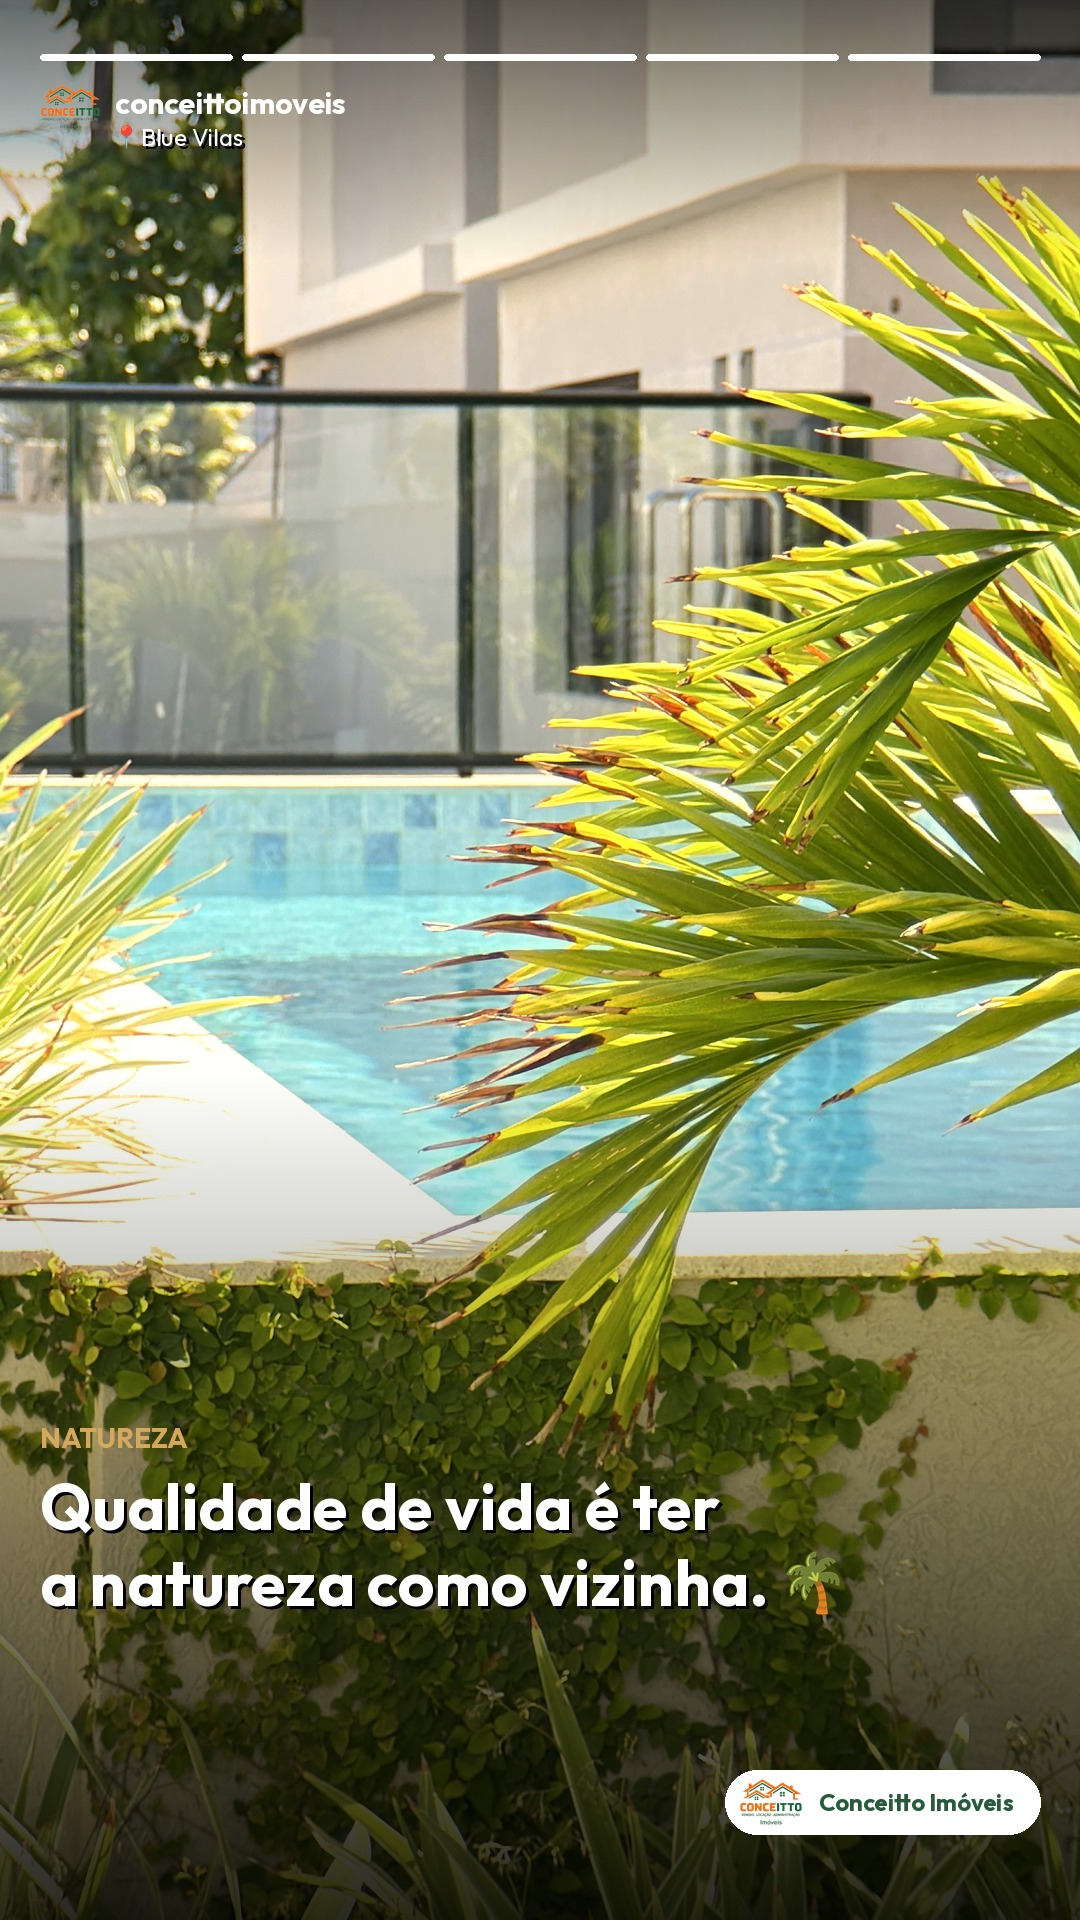
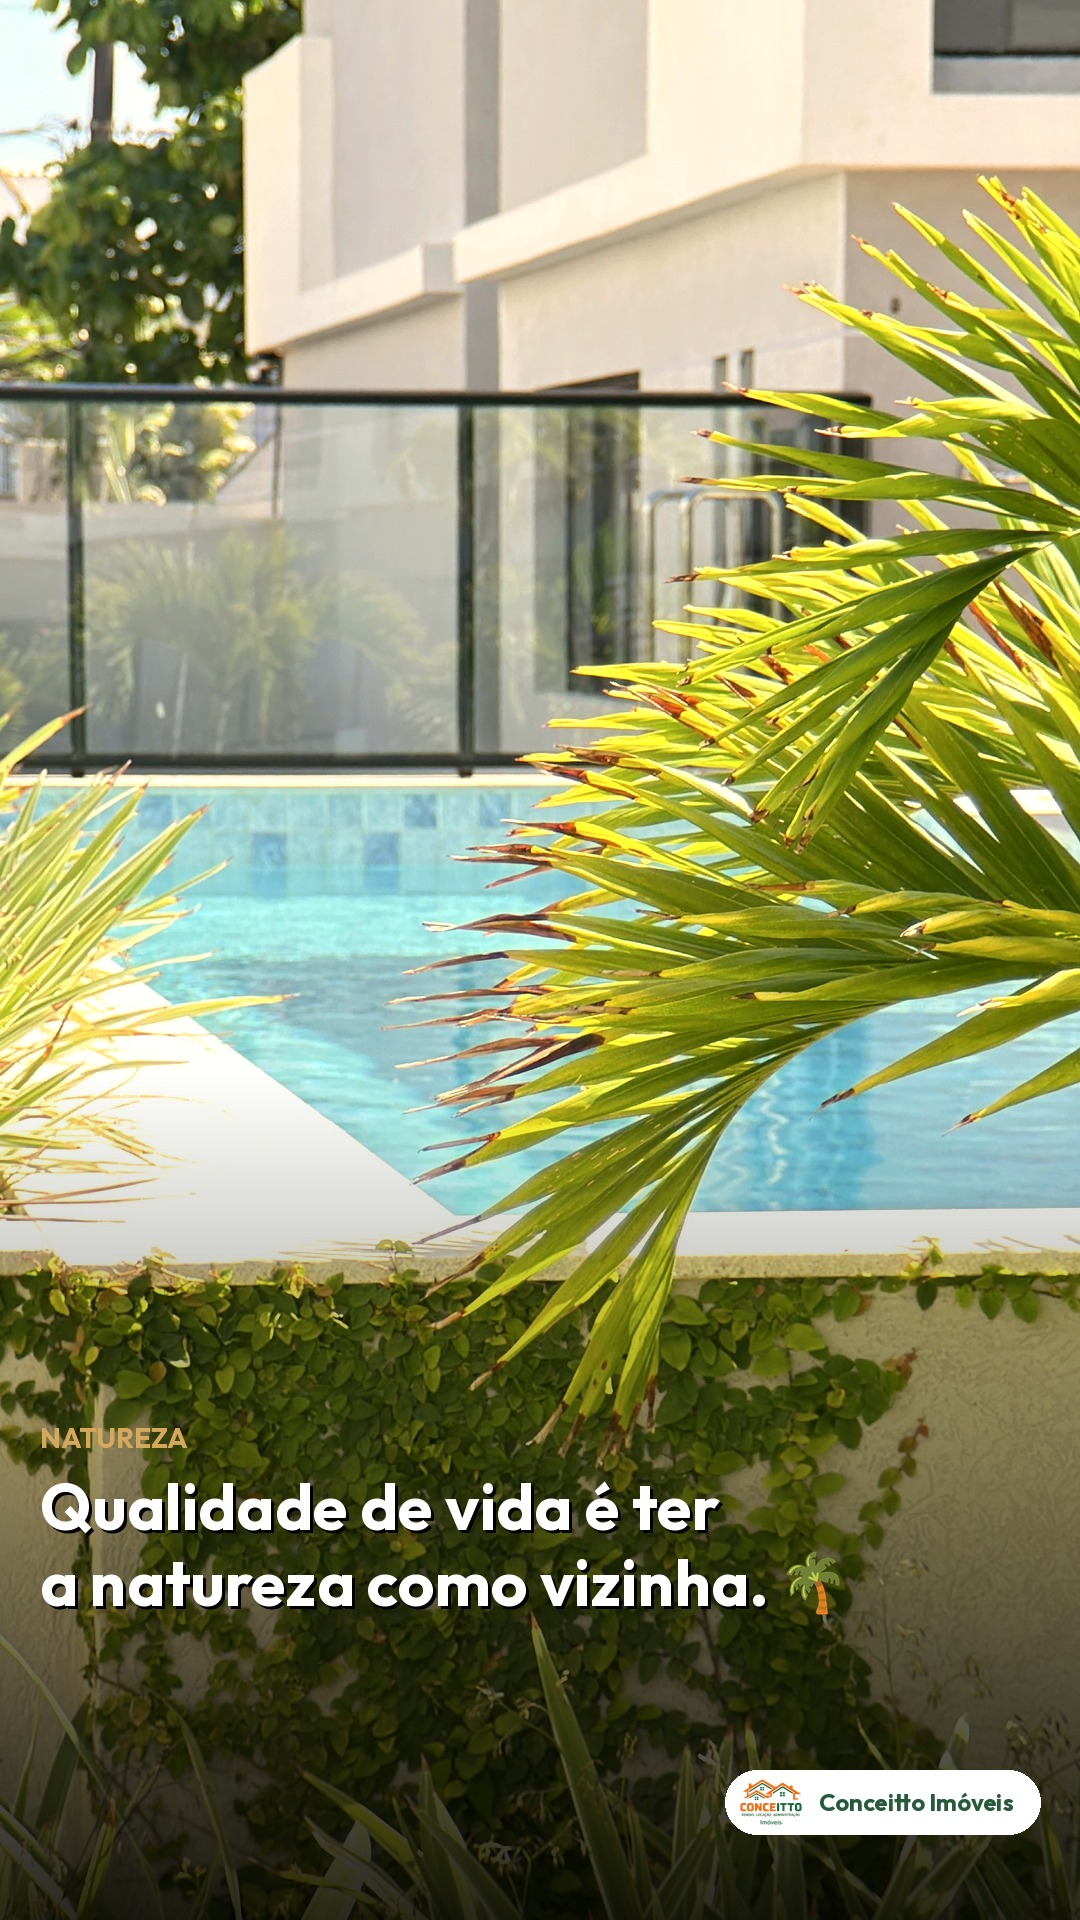
Remove UI falsa do Instagram dos cards de Stories
Tira a barra de progresso, o handle @conceittoimoveis e a localização
simulados no topo dos 5 cards — o próprio Instagram já desenha isso por
cima ao publicar (foto de perfil, conta, stickers), então ficava
duplicado e por cima da interface real. Os cards agora têm só a foto
tratada, a copy e a marca d'água da Conceitto no rodapé. Atualiza o
script make_stories.py (paths relativos restaurados) e a seção 10 do
README.

Claude-Session: https://claude.ai/code/session_017FMhFjrTWxDJoqAE912qQy

Changed region(s): [[0.0, 0.0, 1.0, 0.125]]

diff --git a/campanha-blue-vilas/scripts/make_stories.py b/campanha-blue-vilas/scripts/make_stories.py
@@ -1,5 +1,7 @@
 # Gera cards de Stories (1080x1920) a partir das fotos brutas selecionadas,
-# com color grading, copy sobreposta e a logo da Conceitto como marca d'água.
+# com color grading, copy sobreposta e a logo da Conceitto como marca d'água
+# (sem nenhuma UI falsa do Instagram — sem barra de progresso, handle ou
+# localização no topo: isso o próprio app já desenha por cima ao publicar).
 #
 # Como usar:
 #   1. pip install pillow
@@ -142,27 +144,15 @@ for i, card in enumerate(CARDS):
     im = grade(im)
     canvas = im.convert("RGBA")
 
-    grad = make_gradient(W, H, top_alpha=150, bottom_alpha=215, top_h=260, bottom_h=850)
+    # Apenas gradiente na base — sem barra de progresso, handle ou
+    # localização no topo: isso o próprio Instagram já desenha por cima
+    # (foto de perfil, @conta e stickers), então replicar aqui duplicava
+    # e ficava por cima da interface real ao publicar.
+    grad = make_gradient(W, H, top_alpha=0, bottom_alpha=215, top_h=0, bottom_h=850)
     canvas.alpha_composite(grad)
     draw = ImageDraw.Draw(canvas)
 
     margin = 40
-    gap = 10
-    seg_w = (W - 2 * margin - gap * (N - 1)) / N
-    for s in range(N):
-        x0 = margin + s * (seg_w + gap)
-        x1 = x0 + seg_w
-        color = (255, 255, 255, 235) if s <= i else (255, 255, 255, 90)
-        rounded_rect(draw, (x0, 54, x1, 60), radius=3, fill=color)
-
-    logo_h = 46
-    logo_small = logo.copy()
-    ratio = logo_h / logo_small.height
-    logo_small = logo_small.resize((int(logo_small.width * ratio), logo_h), Image.LANCZOS)
-    canvas.alpha_composite(logo_small, (margin, 84))
-    draw.text((margin + logo_small.width + 14, 84), "conceittoimoveis", font=f_bold(30), fill=WHITE)
-    draw_line_with_emoji(canvas, draw, (margin + logo_small.width + 14, 122), "📍 Blue Vilas", f_reg(24), (255, 255, 255, 220))
-
     ky = 1360 if card["focus"] == "top" else 1420
     draw.text((margin, ky), card["kicker"], font=f_bold(28), fill=GOLD)
 
@@ -202,6 +192,6 @@ for i, card in enumerate(CARDS):
         canvas.alpha_composite(lg, (int(cx0 + pad_l), int(cy0 + 8)))
         draw.text((cx0 + pad_l + lg.width + gap2, cy0 + chip_h / 2), label, font=lf, fill=(40, 90, 60), anchor="lm")
 
-    out_path = os.path.join(OUT, f"story-{i+1}-{os.path.splitext(card['photo'])[0]}.png")
-    canvas.convert("RGB").save(out_path, quality=95)
+    out_path = os.path.join(OUT, f"story-{i+1}-{os.path.splitext(card['photo'])[0]}.jpg")
+    canvas.convert("RGB").save(out_path, quality=92)
     print("saved", out_path)

diff --git a/campanha-blue-vilas/README.md b/campanha-blue-vilas/README.md
@@ -167,6 +167,8 @@ Clean up this architectural floor plan graphic for a premium real-estate Instagr
 
 A partir da seleção da seção 3, gerei 5 cards finais em `stories/` (1080×1920, formato Stories/Reels), já com color grading aplicado, copy sobreposta e a logo da **Conceitto Imóveis** como marca d'água — prontos para postar em sequência.
 
+**Sem nenhuma UI falsa do Instagram**: a primeira versão simulava a barra de progresso, o `@conceittoimoveis` e a localização no topo, mas isso é exatamente o que o próprio app já desenha por cima ao publicar (foto de perfil, nome da conta, stickers) — então duplicava e ficava por cima da interface real. Os cards atuais só têm a foto tratada, a copy e a marca d'água — o resto o Instagram cuida sozinho.
+
 | Arquivo | Cena | Papel na sequência |
 |---|---|---|
 | `story-1-hook.jpg` | Retrato (IMG_9036) | **Hook** — abre a sequência, prende o olhar |
@@ -175,18 +177,16 @@ A partir da seleção da seção 3, gerei 5 cards finais em `stories/` (1080×19
 | `story-4-lazer.jpg` | Piscina (IMG_9061) | Diferencial 3 — lazer |
 | `story-5-cta.jpg` | Retrato varanda (IMG_8987) | **CTA** — fecha com convite direto |
 
-**Técnicas de engajamento aplicadas em cada card** (todas nativas do formato Stories, sem depender de sticker do app):
-- **Barra de progresso no topo** (5 segmentos) — sinaliza que é uma sequência e incentiva a pessoa a assistir até o fim, em vez de sair no primeiro card.
-- **Identificação de conta + localização** (`conceittoimoveis` + 📍 Blue Vilas) fixada em todo card — se alguém printar e reenviar por WhatsApp (comportamento comum em imóveis), a marca viaja junto.
+**Técnicas de engajamento aplicadas em cada card:**
 - **Kicker curto em caixa alta** (ex.: "LAZER", "NATUREZA") antes da frase — cria hierarquia de leitura rápida, essencial num formato que some em segundos.
 - **Frase de no máx. 2 linhas curtas** — Stories têm ~3-5s de atenção; textos longos derrubam a taxa de conclusão.
 - **Gradiente escuro só na base** — preserva a foto quase inteira visível (o que vende o imóvel) e garante contraste de leitura sem tarja sólida.
 - **Botão de CTA falso no último card** ("FALE COM A CONCEITTO") — deixa claro o próximo passo antes mesmo de a corretora colar o link/sticker de verdade por cima no app.
 - **Marca d'água em chip translúcido**, não em tarja opaca — mantém a logo sempre legível em qualquer foto sem tampar a cena.
 
-**Antes de postar, complete no próprio Instagram** (isso um card estático não faz sozinho):
+**Ao postar, use os recursos nativos do Instagram** (o card estático não faz isso sozinho):
 - Adicionar o **sticker de link** ("Fale com a gente") ou o **sticker de enquete/pergunta** por cima do card 5 — aumenta drasticamente o alcance por engajamento direto.
-- Adicionar o **sticker de localização** nativo (além do texto 📍 já no card) — o texto sozinho não conta para o algoritmo de local.
-- Publicar os 5 em sequência direta (não intercalar com outros stories) para a barra de progresso fazer sentido.
+- Adicionar o **sticker de localização** nativo "Blue Vilas" — só ele conta para o algoritmo de local (não dá pra simular isso no card).
+- Publicar os 5 em sequência direta, sem intercalar com outros stories, para funcionar como uma narrativa contínua.
 
 Script de geração: `scripts/make_stories.py` (Pillow) — reaproveitável para o lote completo de fotos quando o gestor validar esta direção.
